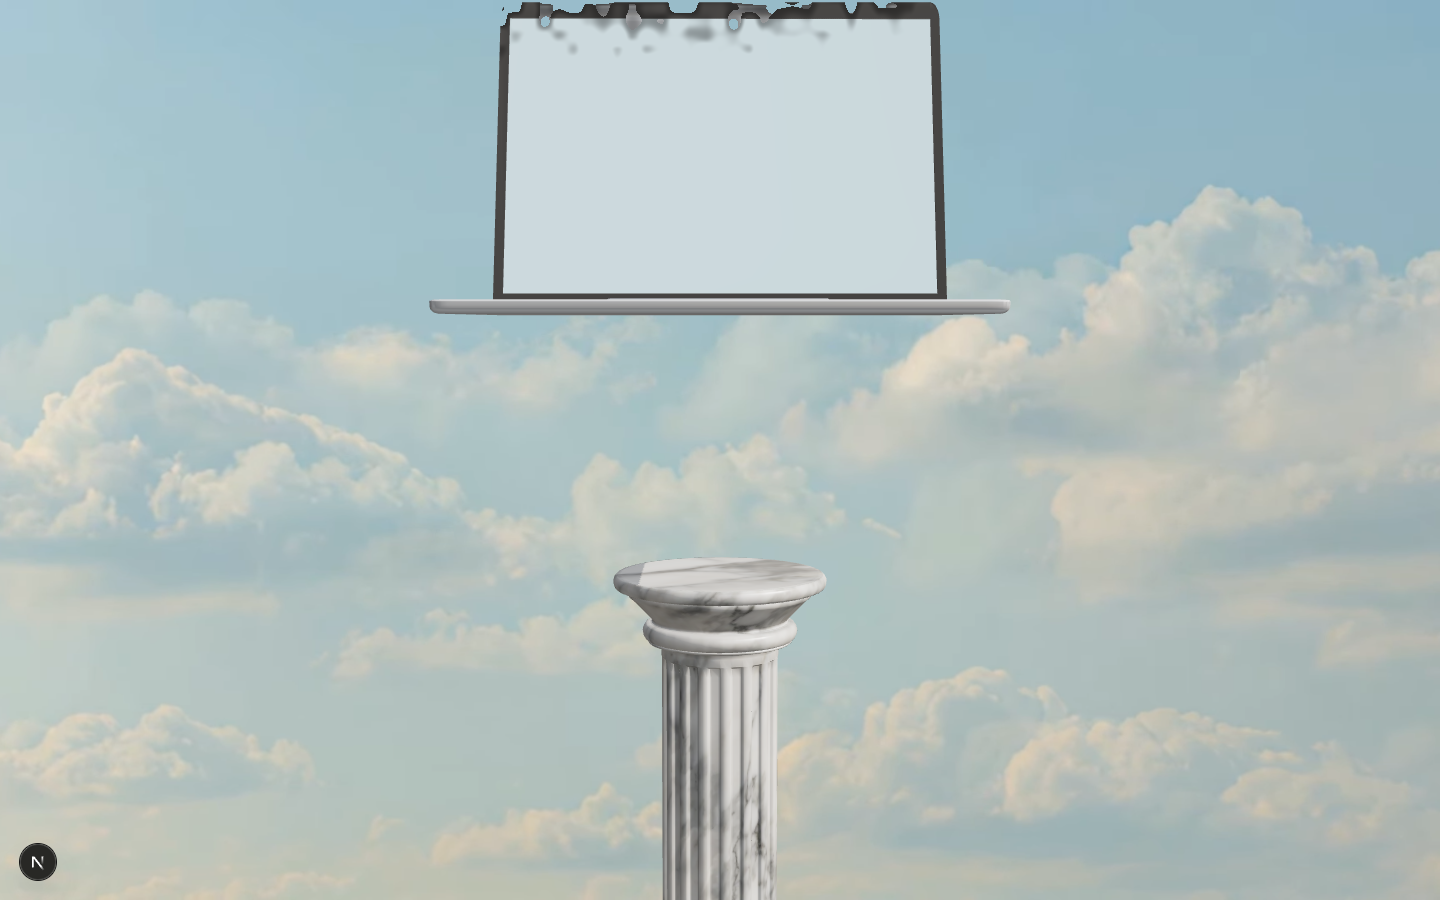
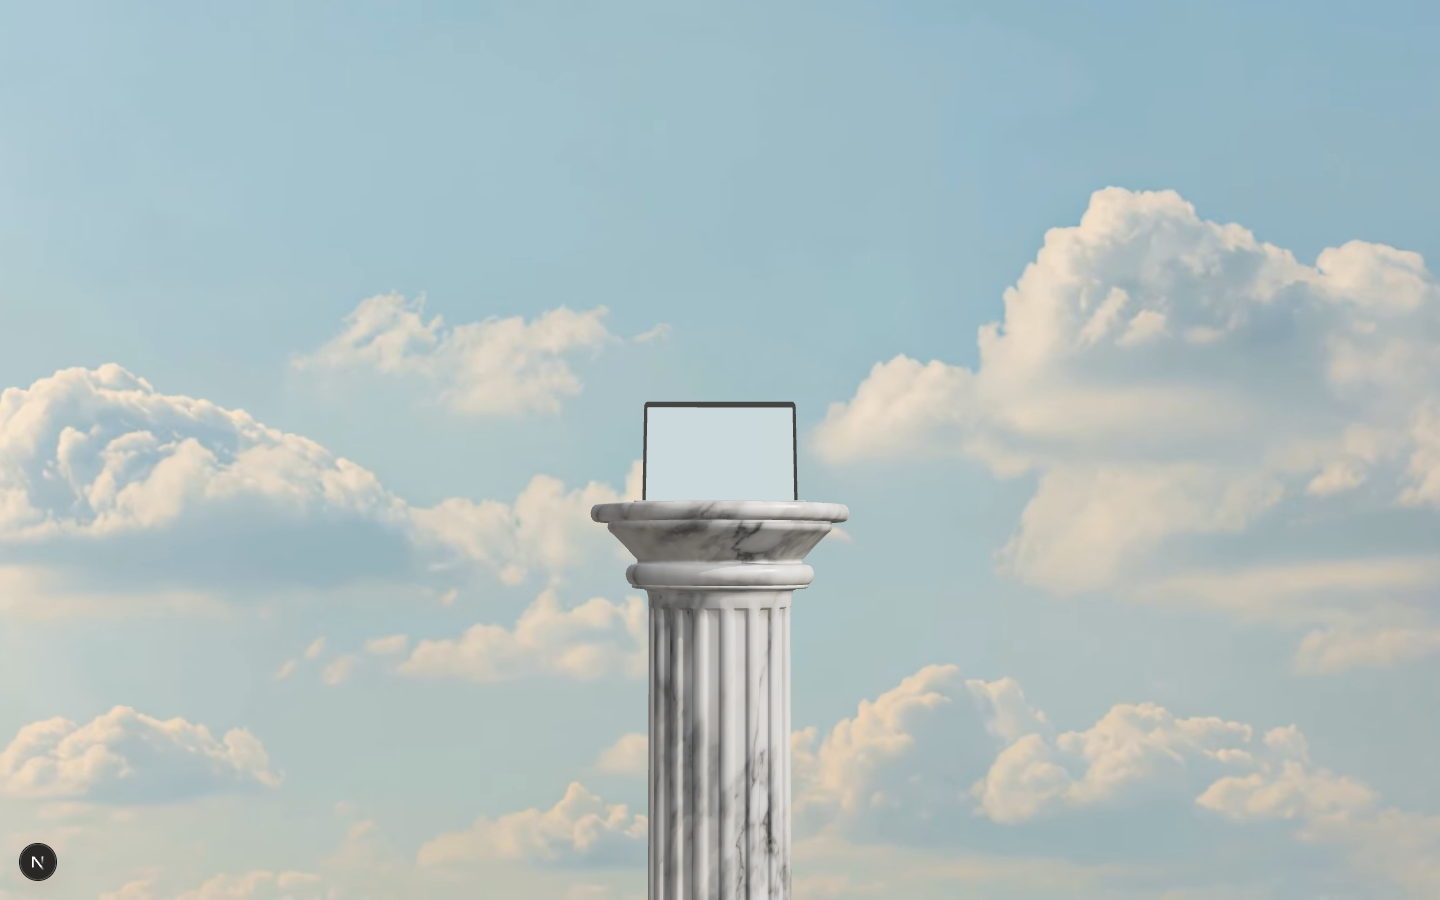
Screen beat as one motion: slide down and dolly in together, laptop sunk onto the marble
Claude-Session: https://claude.ai/code/session_01NAdPXLUXCGhh82qBsMYyAh

diff --git a/src/hero/Rebuild.tsx b/src/hero/Rebuild.tsx
@@ -103,13 +103,13 @@ export function Rebuild({ video }: { video: HTMLVideoElement | null }) {
 
     // the lid lifts from 0.80 to 0.89 to its open angle, then squares to vertical as the rig comes down
     const open = ease.inOut(remap(p, 0.8, 0.89));
-    const down = ease.inOut(remap(p, BEATS.screen[0], 0.94));
+    const down = ease.inOut(remap(p, BEATS.screen[0], 0.985));
     const lidDeg = THREE.MathUtils.lerp(LID_OPEN_DEG * open, 90, down);
     if (lid.current) lid.current.rotation.x = THREE.MathUtils.degToRad(lidDeg);
 
     // screen beat, part one: the whole rig slides down until the screen is at the centre of the frame
     const l = scenes.l;
-    l.position.set(0, COLUMN_TOP, 0);
+    l.position.set(0, COLUMN_TOP - 0.003, 0);  // sunk a hair so the base always reads as sitting on the marble
     g.position.y = 0;
     if (down > 0 && screen.current) {
       g.updateMatrixWorld(true);

diff --git a/src/hero/CameraRig.tsx b/src/hero/CameraRig.tsx
@@ -91,7 +91,7 @@ export function CameraRig({ frozen = false }: { frozen?: boolean }) {
     stageTarget.camPos.copy(tmpPos);
     stageTarget.look.copy(tmpLook);
     stageTarget.fov = fov;
-    const dolly = ease.inOut(remap(p, 0.94, 0.985));
+    const dolly = ease.inOut(remap(p, BEATS.screen[0], 0.985));  // one motion with the slide down
     if (dolly > 0 && screenState.ready) {
       const fovRad = THREE.MathUtils.degToRad(fov);
       const dist = (screenState.height / 2) / Math.tan(fovRad / 2) / 1.04;
